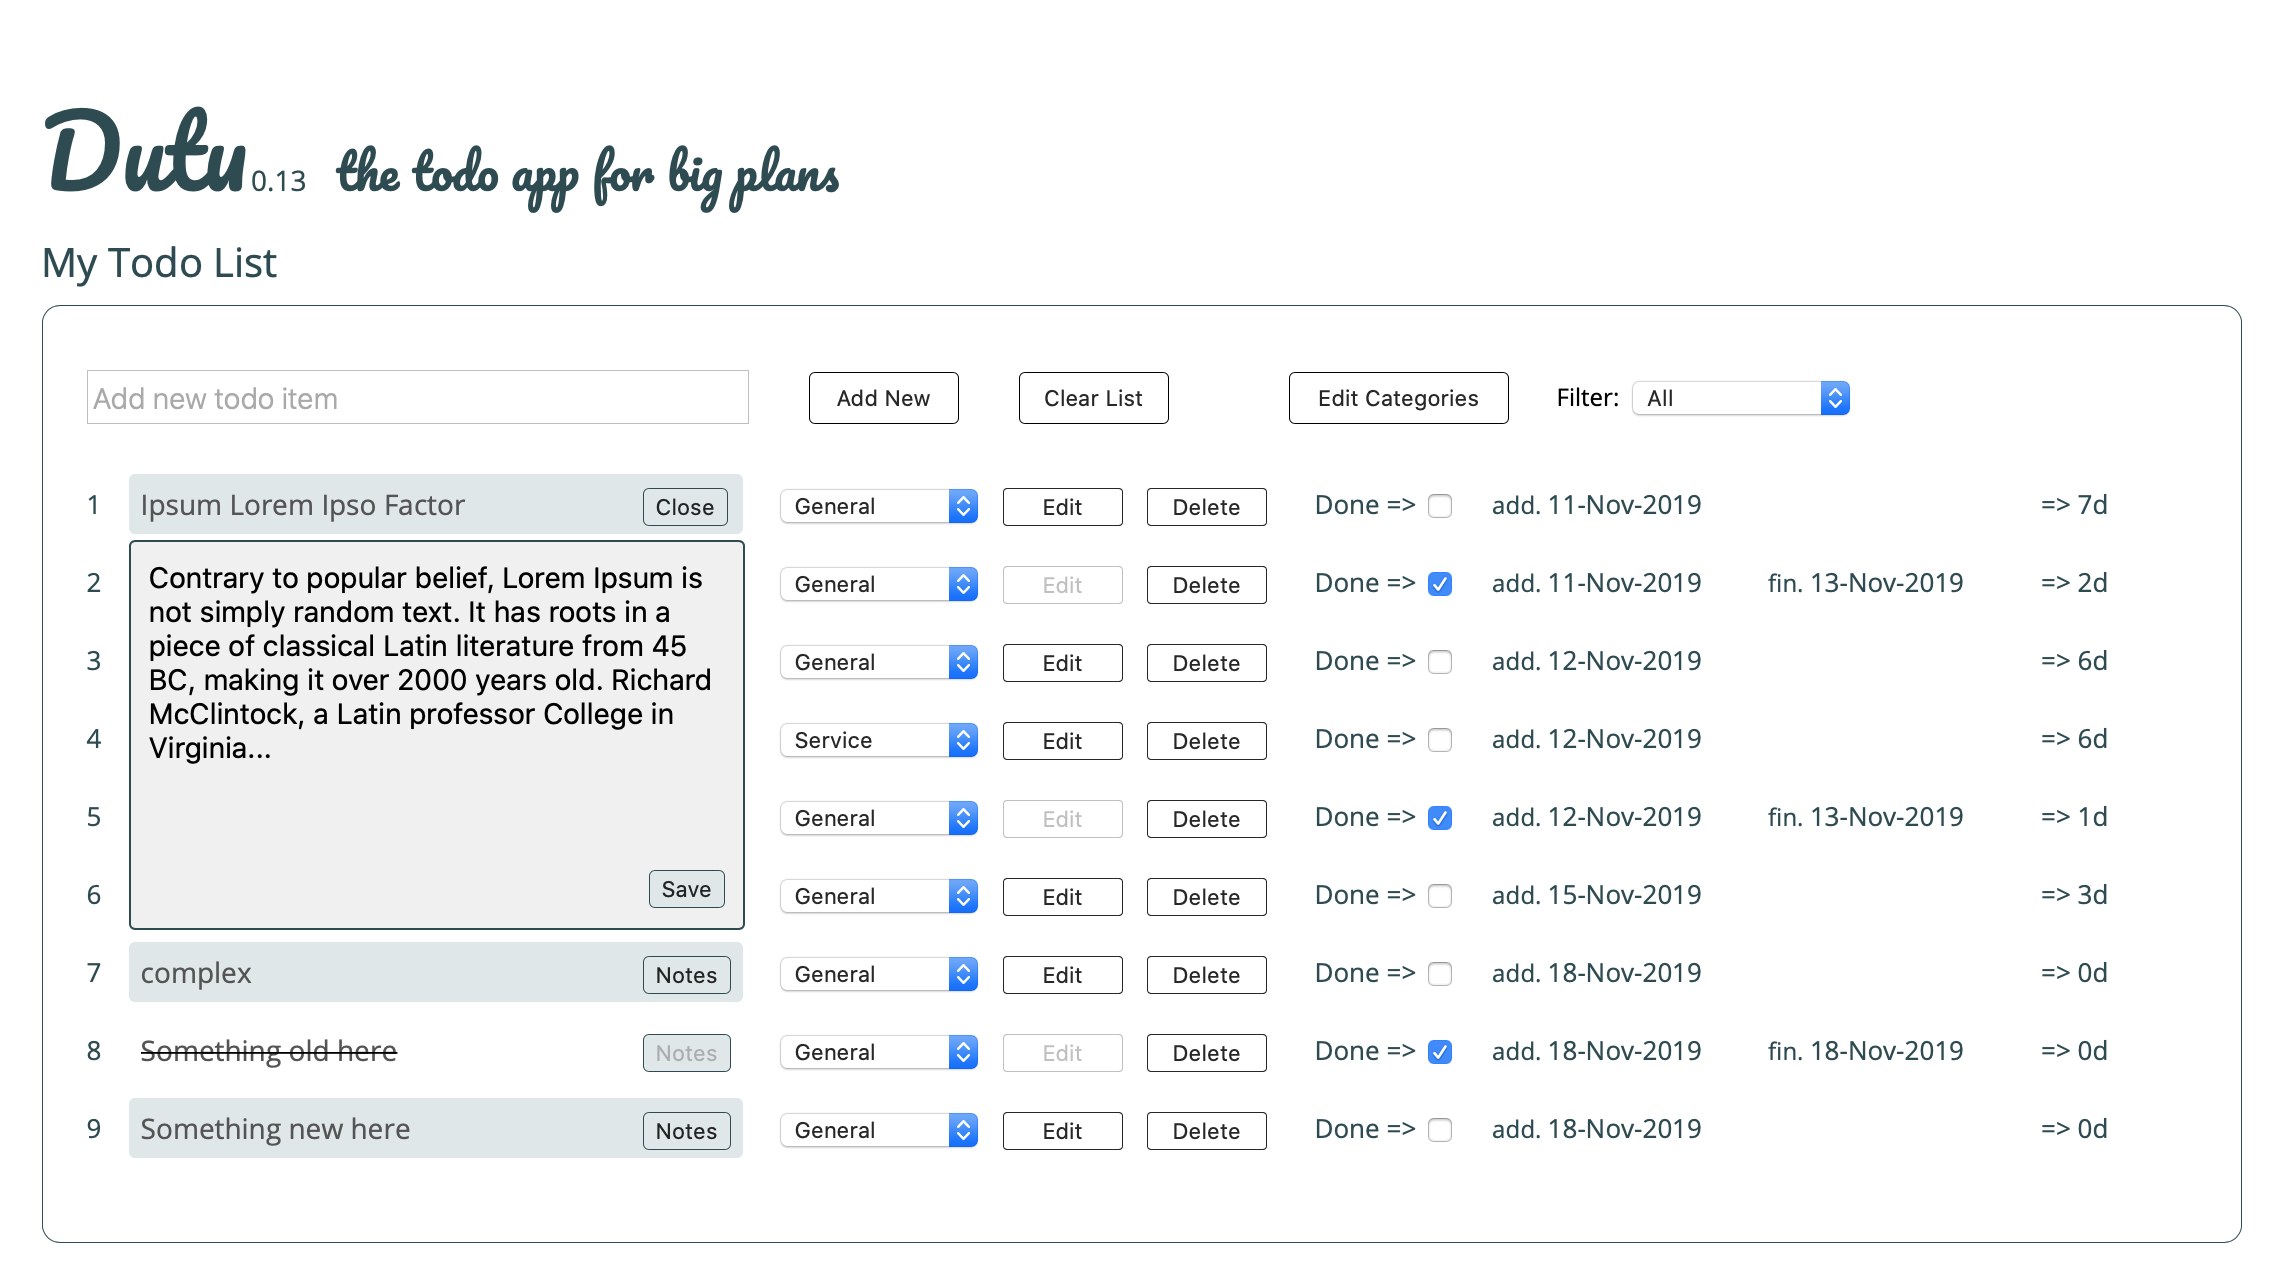
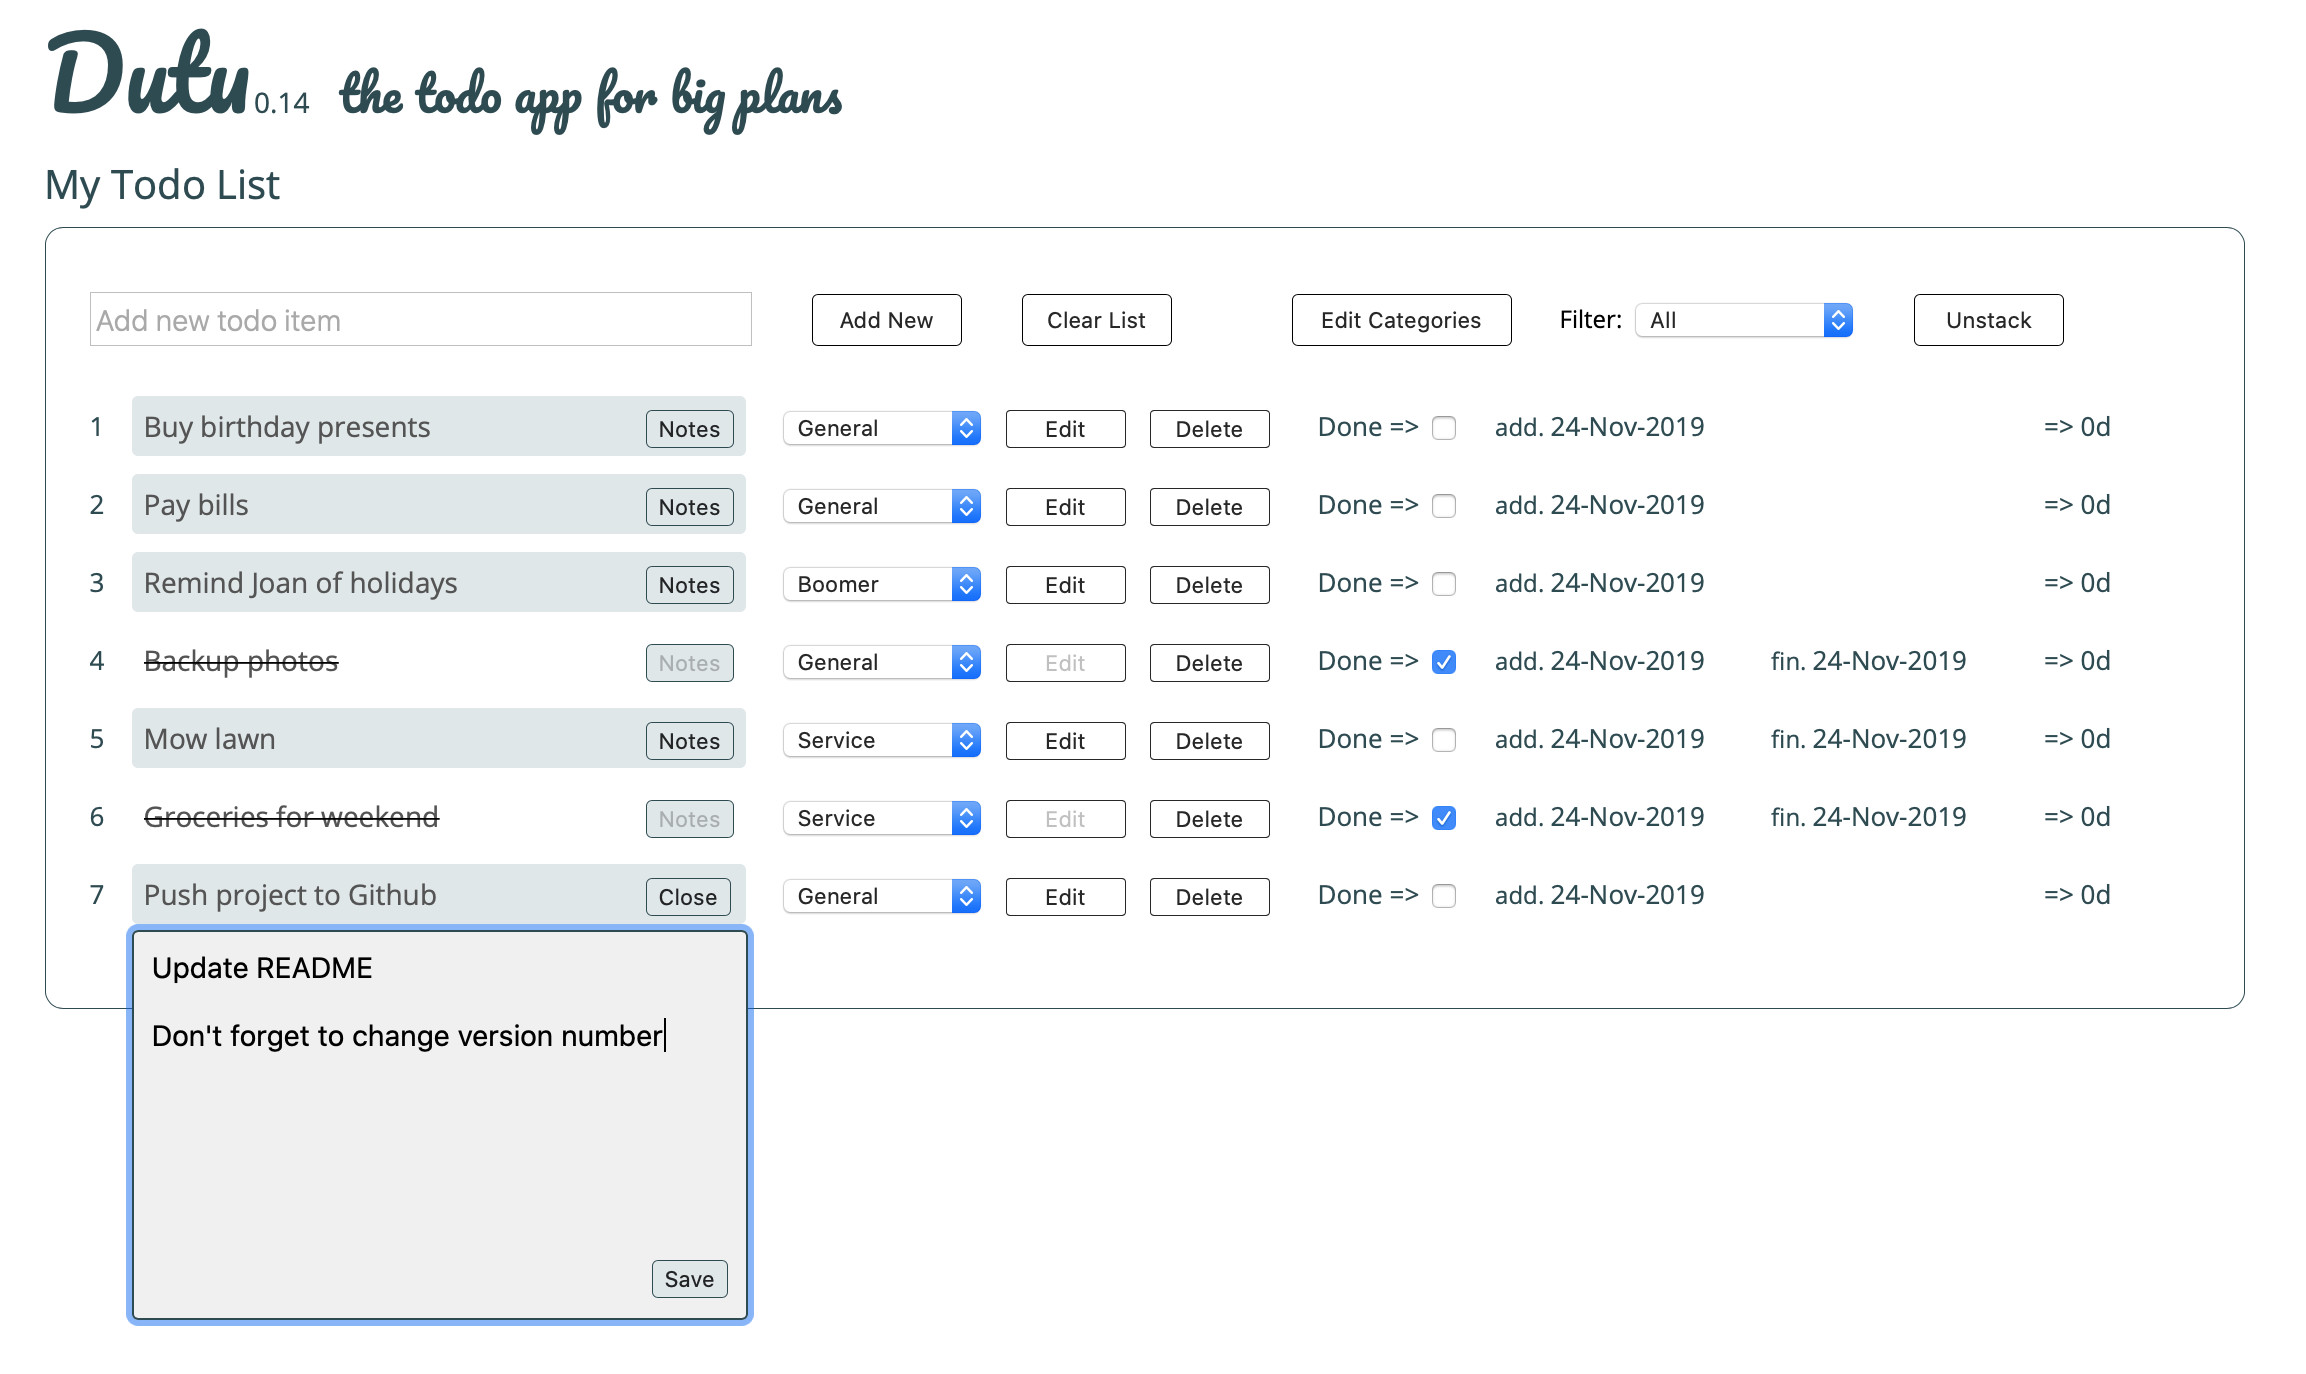
redo restack functionality

diff --git a/dist/dutu.js b/dist/dutu.js
@@ -103,14 +103,20 @@ function retrieveDutu(defaultCategories, defaultCategory) {
   obj = obj == null || obj == 'undefined' ? null : obj;
   if (obj == null) return obj;
   obj = JSON.parse(obj); // checks
-  // if no categories node; add default
 
-  let keys = Object.keys(obj);
+  let keys = Object.keys(obj); // if no categories node; add default - 0.13
 
   if (keys.indexOf('categories') == -1) {
     obj['categories'] = defaultCategories;
   }
 
+  if (keys.indexOf('restack') == -1) {
+    obj['restack'] = false;
+  } // if no orders node; create one - 0.14  
+  // we always reset order on load in case things have changed
+
+
+  obj['listorder'] = -1;
   let tasks = obj.tasks;
 
   for (let t in tasks) {
@@ -130,7 +136,18 @@ function retrieveDutu(defaultCategories, defaultCategory) {
     } // remove blanks
 
 
-    obj.categories = obj.categories.filter(cat => cat.trim() != '');
+    obj.categories = obj.categories.filter(cat => cat.trim() != ''); // listorder: for restacking - we only do live tasks now
+
+    if (!tasks[t].done) {
+      tasks[t].order = ++obj.listorder;
+    }
+  } // do record order for done tasks
+
+
+  for (let t in tasks) {
+    if (tasks[t].done) {
+      tasks[t].order = ++obj.listorder;
+    }
   }
 
   return obj;
@@ -152,7 +169,7 @@ function saveDutu(data, defaultCategory) {
 
 
 
-let version = 0.13;
+let version = 0.14;
 let months = ['Jan', 'Feb', 'Mar', 'Apr', 'May', 'Jun', 'Jul', 'Aug', 'Sep', 'Oct', 'Nov', 'Dec'];
 var dutuData;
 var defaultCategories = ['All', 'General'];
@@ -446,7 +463,7 @@ class dutu_ToDoItem extends React.Component {
     } else {
       // box already open so close: note no saving!
       e.target.textContent = 'Notes';
-      notes.value = this.state.notes || '';
+      notes.value = this.state.notes || this.state.notesPlaceholder;
       editClassName(e.target, 'item-notes-opened', 'remove');
       editClassName(notesWrap, 'item-notes-selected', 'remove');
     }
@@ -564,9 +581,20 @@ const LoadList = props => {
   let keys = Object.keys(tasks); // get keys so we can loop
 
   let rows = [];
+  let order = {};
+  let restack = props.data.restack; // we don't want to disturb the object - so no reordering
+  // we'll instead map listorders to their object keys
 
   for (let i = 0; i < keys.length; i++) {
-    let k = keys[i]; // check if we need to filter
+    let k = keys[i];
+    order[tasks[k].order] = k;
+  } // create items; nb keys.lengths used as conveniently gives task count
+
+
+  for (let i = 0; i < keys.length; i++) {
+    // get underlying object key
+    // if to restack: use the order obj keys else use the tasks obj keys
+    let k = restack ? order[i] : keys[i]; // check if we need to filter
     // nb. props.selected is undefined at first load
 
     if (props.selected != undefined && props.selected != 'All') {
@@ -580,11 +608,11 @@ const LoadList = props => {
     }
 
     rows.push(React.createElement(dutu_ToDoItem, {
-      key: k,
-      id: 'row-' + (i + 1) // css id as well as shown row number
+      key: i,
+      id: 'row-' + (parseInt(i) + 1) // css id as well as shown row number
       ,
       cname: "item-row",
-      objKey: keys[i] // underlying object key
+      objKey: k // underlying object key
       ,
       data: props.data,
       taskie: tasks[k],
@@ -603,13 +631,17 @@ class dutu_List extends React.Component {
     this.handleDelete = this.handleDelete.bind(this);
     this.handleEditCat = this.handleEditCat.bind(this);
     this.handleFilterCat = this.handleFilterCat.bind(this);
+    this.handleRestack = this.handleRestack.bind(this);
     this.state = {
       theList: React.createElement(LoadList, {
         data: this.props.data,
         handleDelete: this.handleDelete
       }),
-      keys: Object.keys(props.data.tasks) // get keys so we can loop
-
+      keys: Object.keys(props.data.tasks),
+      // get keys so we can loop
+      listorder: this.props.data.listorder,
+      restack: this.props.data.restack,
+      stackText: this.props.data.restack ? 'Unstack' : 'Restack'
     };
   }
 
@@ -617,6 +649,7 @@ class dutu_List extends React.Component {
     if (this.props !== prevProps) {
       // reset this so it can be reloaded eg when categories change etc
       this.setState({
+        restack: this.props.data.restack,
         theList: React.createElement(LoadList, {
           data: this.props.data,
           handleDelete: this.handleDelete
@@ -638,7 +671,8 @@ class dutu_List extends React.Component {
     let date = convertDateToText(now);
     let newTask = {
       'task': inp.value,
-      'added': date
+      'added': date,
+      'order': ++this.state.listorder
     }; // add to database
     // use this.props and not a this.state.data copy
     // so underlying data object is changed
@@ -655,7 +689,8 @@ class dutu_List extends React.Component {
 
     keys_.push(newKey);
     this.setState({
-      keys: keys_
+      keys: keys_,
+      listorder: ++this.state.listorder
     });
     this.componentDidUpdate(); // reset input box
 
@@ -727,6 +762,21 @@ class dutu_List extends React.Component {
     this.componentDidUpdate();
   }
 
+  handleRestack(e) {
+    if (this.state.restack) {
+      this.props.data.restack = false;
+      e.target.textContent = 'Restack';
+    } else {
+      this.props.data.restack = true;
+      e.target.textContent = 'Unstack';
+    }
+
+    saveDutu(this.props.data, defaultCategory);
+    this.componentDidUpdate(); // updates button text
+
+    location.reload();
+  }
+
   render() {
     return React.createElement("div", null, React.createElement("div", {
       id: "above"
@@ -754,6 +804,11 @@ class dutu_List extends React.Component {
       id: "cat-filter",
       categories: this.props.data.categories,
       onChange: this.handleFilterCat
+    }), React.createElement(Btn, {
+      id: "restack",
+      className: "above-btn",
+      txt: this.state.stackText,
+      handle: this.handleRestack
     })), this.state.theList);
   }
 

diff --git a/src/dutu.jsx b/src/dutu.jsx
@@ -2,7 +2,7 @@
 
 import {retrieveDutu, saveDutu} from './fromtojson.jsx';
 
-let version = 0.13
+let version = 0.14
 let months = ['Jan', 'Feb', 'Mar', 'Apr', 'May', 'Jun',
                 'Jul', 'Aug', 'Sep', 'Oct', 'Nov', 'Dec']
 var dutuData;
@@ -277,7 +277,7 @@ class ToDoItem extends React.Component {
             editClassName(notesWrap, 'item-notes-selected', 'add')
         } else { // box already open so close: note no saving!
             e.target.textContent = 'Notes';
-            notes.value = this.state.notes || '';
+            notes.value = this.state.notes || this.state.notesPlaceholder;
             editClassName(e.target, 'item-notes-opened', 'remove');
             editClassName(notesWrap, 'item-notes-selected', 'remove')
         }
@@ -405,9 +405,22 @@ const LoadList = (props) => {
     let tasks = props.data.tasks;
     let keys = Object.keys(tasks); // get keys so we can loop
     let rows = []
+    let order = {}
+    let restack = props.data.restack
 
+    // we don't want to disturb the object - so no reordering
+    // we'll instead map listorders to their object keys
     for (let i=0; i<keys.length; i++) {
         let k = keys[i];
+        order[tasks[k].order] = k;
+    }
+
+    // create items; nb keys.lengths used as conveniently gives task count
+    for (let i=0; i<keys.length; i++) {
+
+        // get underlying object key
+        // if to restack: use the order obj keys else use the tasks obj keys
+        let k = restack ? order[i] : keys[i];  
 
         // check if we need to filter
         // nb. props.selected is undefined at first load
@@ -420,10 +433,10 @@ const LoadList = (props) => {
             }
         }
         rows.push(
-            <ToDoItem key={k}
-                id={'row-'+(i+1)}   // css id as well as shown row number
+            <ToDoItem key={i}
+                id={'row-'+(parseInt(i)+1)}   // css id as well as shown row number
                 cname='item-row'
-                objKey={keys[i]}    // underlying object key
+                objKey={k}    // underlying object key
                 data={props.data}
                 taskie={tasks[k]}
                 handleDelete={props.handleDelete}
@@ -443,11 +456,15 @@ class List extends React.Component {
         this.handleDelete = this.handleDelete.bind(this);
         this.handleEditCat = this.handleEditCat.bind(this);
         this.handleFilterCat = this.handleFilterCat.bind(this);
+        this.handleRestack = this.handleRestack.bind(this);
         this.state = {
             theList: <LoadList 
                         data={this.props.data}
                         handleDelete={this.handleDelete} />,
             keys: Object.keys(props.data.tasks), // get keys so we can loop
+            listorder: this.props.data.listorder,
+            restack: this.props.data.restack,
+            stackText: this.props.data.restack ? 'Unstack' : 'Restack'
         }
     }
 
@@ -455,6 +472,7 @@ class List extends React.Component {
         if (this.props !== prevProps) {
             // reset this so it can be reloaded eg when categories change etc
             this.setState({
+                restack: this.props.data.restack,
                 theList : <LoadList 
                     data={this.props.data}
                     handleDelete={this.handleDelete} />,
@@ -479,6 +497,7 @@ class List extends React.Component {
         let newTask = {
             'task': inp.value,
             'added': date,
+            'order': ++this.state.listorder,
         }
 
         // add to database
@@ -494,7 +513,7 @@ class List extends React.Component {
         
         // update shown list and keys
         keys_.push(newKey);
-        this.setState({keys: keys_});
+        this.setState({keys: keys_, listorder: ++this.state.listorder});
         this.componentDidUpdate();
 
         // reset input box
@@ -564,6 +583,19 @@ class List extends React.Component {
         }
         this.componentDidUpdate();
     }
+
+    handleRestack(e) {
+        if (this.state.restack) {
+            this.props.data.restack = false;
+            e.target.textContent = 'Restack';
+        } else {
+            this.props.data.restack = true;
+            e.target.textContent = 'Unstack';
+        }
+        saveDutu(this.props.data, defaultCategory);
+        this.componentDidUpdate(); // updates button text
+        location.reload();
+    }
        
     render() {
         return (
@@ -599,6 +631,13 @@ class List extends React.Component {
                         onChange={this.handleFilterCat}
                     />
 
+                    <Btn 
+                        id='restack'
+                        className='above-btn'
+                        txt={this.state.stackText} 
+                        handle={this.handleRestack}
+                    />
+
                 </div>
                 {this.state.theList}
             </div>
@@ -615,7 +654,7 @@ class ToDo extends React.Component {
             </div>
             <div id='me'> {this.props.data.me} Todo List </div>
             <div id='table'>
-                 <List data={this.props.data}/>
+                 <List data={this.props.data} />
             </div>
         </div>
         )

diff --git a/src/fromtojson.jsx b/src/fromtojson.jsx
@@ -13,11 +13,19 @@ export function retrieveDutu(defaultCategories, defaultCategory) {
     obj = JSON.parse(obj);
     
     // checks
-    // if no categories node; add default
     let keys = Object.keys(obj);
+    // if no categories node; add default - 0.13
     if (keys.indexOf('categories') == -1) {
         obj['categories'] = defaultCategories;
     }
+
+    if (keys.indexOf('restack') == -1) {
+        obj['restack'] = false;
+    }
+
+    // if no orders node; create one - 0.14  
+    // we always reset order on load in case things have changed
+    obj['listorder'] = -1;  
 
     let tasks = obj.tasks;
     for (let t in tasks) {
@@ -35,7 +43,19 @@ export function retrieveDutu(defaultCategories, defaultCategory) {
         }
         // remove blanks
         obj.categories = obj.categories.filter((cat)=>cat.trim() != '');
+        
+        // listorder: for restacking - we only do live tasks now
+        if (!tasks[t].done) {
+            tasks[t].order = ++obj.listorder;
+        } 
     }
+    // do record order for done tasks
+    for (let t in tasks) {
+        if (tasks[t].done) {
+            tasks[t].order = ++obj.listorder;
+        }
+    }
+
     return obj;
 }
 
